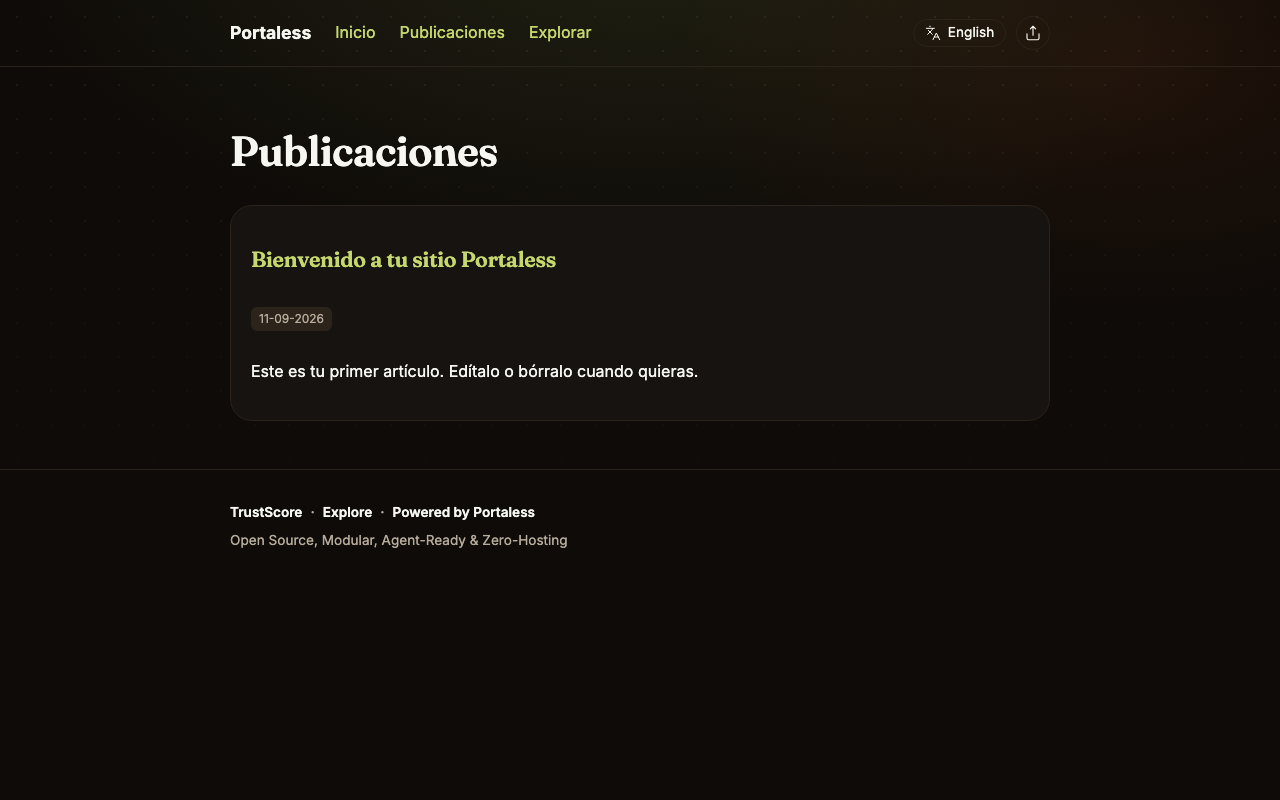
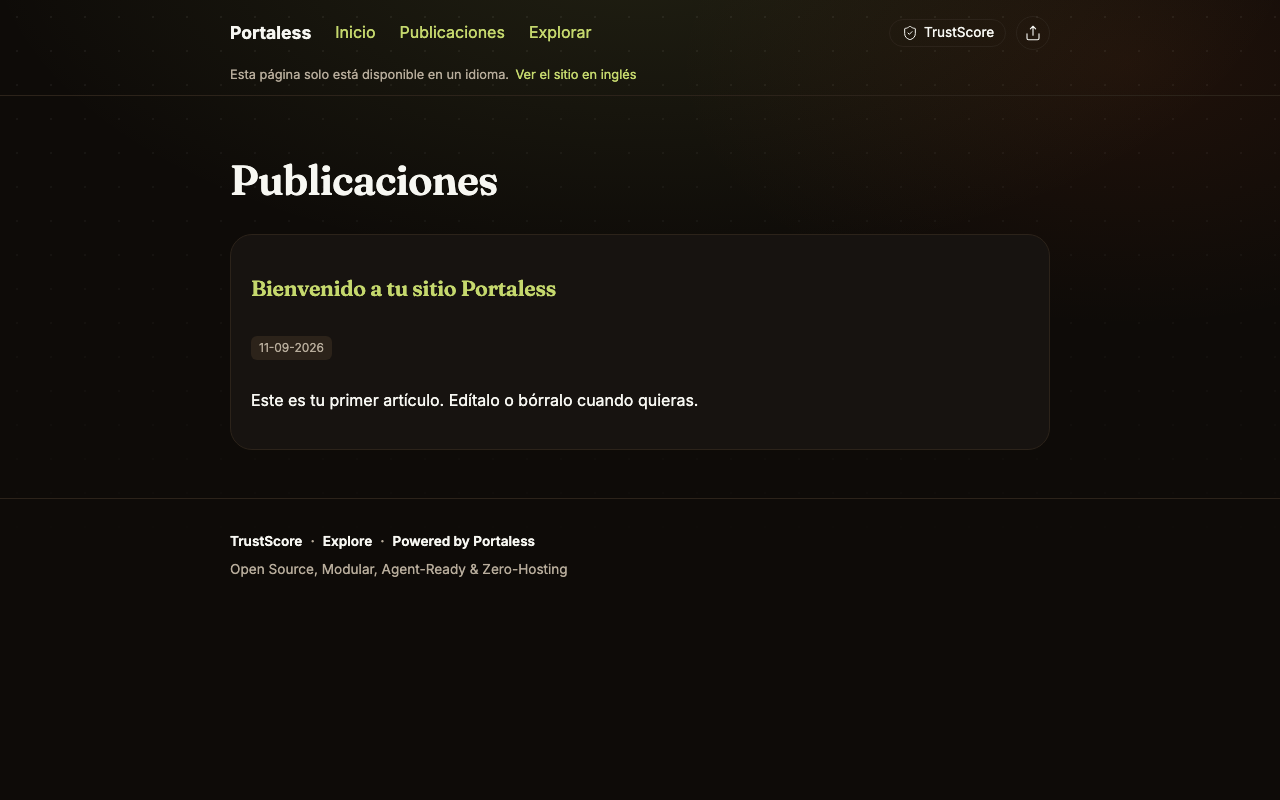
feat(site): promote TrustScore to the header (sixth universal item, next to Share)
The site's trust signal is the product's most differentiated piece but lived
only in the footer. It is now a shield icon + label in the header's right group,
before Share (language - TrustScore - share), on both surfaces via the shared
trustLinkHtml(). On mobile it is icon-only: Portaless [home][publications]
[search][shield][language] [share].

Destination fixed while promoting it: the footer (and now the header) pointed at
/trust/default, which 404s on the static GitHub Pages demo (no functions/). Both
now point at the /trust/ hub, which exists in the static build and resolves the
site id to the real default when the URL carries none (instead of "no site to
query"); /trust/<siteId> stays the JSON endpoint on a node.

Tests: trustLinkHtml (markup, both surfaces, order before Share, CSS in both),
footer test pins the hub + default resolution, browser cases (header link on
desktop, icon-only mobile, footer href). Screenshots regenerated.

Verified: vitest 192 files / 1773 passed, npx playwright test 37/37, build 56
pages.

diff --git a/functions/paginas/[slug].js b/functions/paginas/[slug].js
@@ -37,6 +37,7 @@ import {
   langNoticeHtml,
   NAV_ICONS,
   navIconHtml,
+  trustLinkHtml,
   VOLUME_LISTENER_SCRIPT,
 } from "../../src/lib/atomic-responsive-icons.ts";
 import {
@@ -90,8 +91,11 @@ header.site-header .header-lang:hover{border-color:var(--accent);color:var(--acc
 header.site-header .header-lang-icon svg{width:16px;height:16px}
 header.site-header .header-lang-notice{display:flex;flex-wrap:wrap;align-items:baseline;gap:0.4rem;max-width:860px;margin:0 auto;padding:0 1.25rem 0.7rem;font-size:0.8rem;line-height:1.4;color:var(--muted)}
 header.site-header .header-lang-notice-link{color:var(--accent-text);white-space:nowrap}
+header.site-header .header-trust{display:inline-flex;align-items:center;gap:0.4rem;padding:0.32rem 0.7rem;border:1px solid var(--panel-border);border-radius:999px;color:var(--text);font-size:0.85rem;line-height:1;text-decoration:none}
+header.site-header .header-trust:hover{border-color:var(--accent);color:var(--accent)}
+header.site-header .header-trust-icon svg{width:16px;height:16px}
 header.site-header .nav-ico{display:none;align-items:center;justify-content:center}
-@media (max-width:640px){header.site-header nav{gap:0.3rem;padding:0.75rem 0.9rem}header.site-header .brand{font-size:1rem}header.site-header .nav-link{display:inline-flex;align-items:center;justify-content:center;width:34px;height:34px;border-radius:999px;color:var(--text)}header.site-header .nav-link:hover{color:var(--accent)}header.site-header .nav-link .nav-ico{display:inline-flex}header.site-header .nav-link .nav-ico svg{width:19px;height:19px}header.site-header .nav-link .nav-txt{position:absolute;width:1px;height:1px;padding:0;margin:-1px;overflow:hidden;clip:rect(0 0 0 0);white-space:nowrap;border:0}header.site-header .header-right{gap:0.3rem}header.site-header .header-lang{width:34px;height:34px;padding:0;justify-content:center}header.site-header .header-lang .header-lang-text{position:absolute;width:1px;height:1px;padding:0;margin:-1px;overflow:hidden;clip:rect(0 0 0 0);white-space:nowrap;border:0}}
+@media (max-width:640px){header.site-header nav{gap:0.3rem;padding:0.75rem 0.9rem}header.site-header .brand{font-size:1rem}header.site-header .nav-link{display:inline-flex;align-items:center;justify-content:center;width:34px;height:34px;border-radius:999px;color:var(--text)}header.site-header .nav-link:hover{color:var(--accent)}header.site-header .nav-link .nav-ico{display:inline-flex}header.site-header .nav-link .nav-ico svg{width:19px;height:19px}header.site-header .nav-link .nav-txt{position:absolute;width:1px;height:1px;padding:0;margin:-1px;overflow:hidden;clip:rect(0 0 0 0);white-space:nowrap;border:0}header.site-header .header-right{gap:0.3rem}header.site-header .header-lang{width:34px;height:34px;padding:0;justify-content:center}header.site-header .header-lang .header-lang-text{position:absolute;width:1px;height:1px;padding:0;margin:-1px;overflow:hidden;clip:rect(0 0 0 0);white-space:nowrap;border:0}header.site-header .header-trust{width:34px;height:34px;padding:0;justify-content:center}header.site-header .header-trust .header-trust-text{position:absolute;width:1px;height:1px;padding:0;margin:-1px;overflow:hidden;clip:rect(0 0 0 0);white-space:nowrap;border:0}}
 header.site-header .header-icon-btn{display:inline-flex;align-items:center;justify-content:center;width:34px;height:34px;padding:0;border:1px solid var(--panel-border);border-radius:999px;background:transparent;color:var(--text);cursor:pointer}
 header.site-header .header-icon-btn:hover{border-color:var(--accent);color:var(--accent)}
 header.site-header .header-icon-btn svg{width:18px;height:18px}
@@ -201,6 +205,7 @@ ${description ? `<meta name="description" content="${description}" />` : ""}
     ${showPostsLink() ? `<a class="nav-link" href="/blog/">${navIconHtml(NAV_ICONS.posts)}<span class="nav-txt">${postsLabel(SITE_LANG)}</span></a>` : ""}
     <a class="nav-link" href="/explore/">${navIconHtml(NAV_ICONS.explore)}<span class="nav-txt">${exploreLabel(SITE_LANG)}</span></a>
     <div class="header-right">
+      ${trustLinkHtml({ href: "/trust/", label: t(SITE_LANG, "trust.label"), ariaLabel: t(SITE_LANG, "trust.aria") })}
       ${headerActionsHtml(deriveHeaderContext(layout.root))}
     </div>
   </nav>
@@ -220,7 +225,7 @@ ${description ? `<meta name="description" content="${description}" />` : ""}
 <footer class="site-footer">
   <div class="container">
     <nav class="footer-eco" aria-label="Ecosistema Portaless">
-      <a href="/trust/default">TrustScore</a>
+      <a href="/trust/">TrustScore</a>
       <span class="sep" aria-hidden="true">·</span>
       <a href="/explore/">Explore</a>
       <span class="sep" aria-hidden="true">·</span>

diff --git a/tests/unit/atomic-responsive-icons.test.ts b/tests/unit/atomic-responsive-icons.test.ts
@@ -18,6 +18,7 @@ import {
   langSwitcherHtml,
   NAV_ICONS,
   navIconHtml,
+  trustLinkHtml,
 } from "../../src/lib/atomic-responsive-icons";
 import {
   ICON_DIRECTIONS,
@@ -26,6 +27,7 @@ import {
   ICON_NEWSPAPER,
   ICON_SEARCH,
   ICON_SHARE_IOS,
+  ICON_SHIELD,
   ICON_SHOPPING_CART,
   ICON_STORE,
   ICON_VOLUME_2,
@@ -201,6 +203,39 @@ describe("langNoticeHtml -- aviso de idioma honesto (patron Airbnb)", () => {
     const cssSrc = readFileSync(join(root, "src/styles/global.css"), "utf8");
     expect(cssSrc).toContain(".header-lang-notice");
     expect(shellSrc).toContain(".header-lang-notice{");
+  });
+});
+
+describe("trustLinkHtml -- TrustScore en el header (sexto item universal)", () => {
+  it("es un enlace con clase header-trust, el icono escudo y la etiqueta", () => {
+    const html = trustLinkHtml({ href: "/trust/", label: "TrustScore", ariaLabel: "Site Trust Score" });
+    expect(html).toContain('class="header-trust"');
+    expect(html).toContain('href="/trust/"');
+    expect(html).toContain('aria-label="Site Trust Score"');
+    expect(html).toContain(ICON_SHIELD);
+    expect(html).toContain('class="header-trust-icon"');
+    expect(html).toContain("TrustScore");
+  });
+
+  it("el header Astro y el shell runtime lo emiten desde la MISMA fuente", () => {
+    expect(headerSrc).toContain("trustLinkHtml({");
+    expect(shellSrc).toContain("trustLinkHtml({");
+  });
+
+  it("va en el grupo derecho, antes de las acciones (share)", () => {
+    const groupIdx = headerSrc.indexOf('class="header-right"');
+    const trustIdx = headerSrc.indexOf("trustLinkHtml({");
+    const actionsIdx = headerSrc.indexOf("headerActionsHtml(context, base)");
+    expect(trustIdx).toBeGreaterThan(groupIdx);
+    expect(actionsIdx).toBeGreaterThan(trustIdx);
+  });
+
+  it("el CSS del header-trust esta en ambas superficies (y en movil icon-only)", () => {
+    const cssSrc = readFileSync(join(root, "src/styles/global.css"), "utf8");
+    expect(cssSrc).toContain(".header-trust");
+    expect(cssSrc).toContain(".header-trust-icon");
+    expect(shellSrc).toContain(".header-trust{");
+    expect(shellSrc).toContain(".header-trust .header-trust-text{");
   });
 });
 

diff --git a/src/styles/global.css b/src/styles/global.css
@@ -309,6 +309,39 @@ header.site-header .header-lang-notice-link {
   white-space: nowrap;
 }
 
+/* TrustScore del sitio en el header (sexto item universal, al lado de Share).
+   Pill con icono escudo + etiqueta; en movil queda icon-only, como el resto. */
+header.site-header .header-trust {
+  display: inline-flex;
+  align-items: center;
+  gap: 0.4rem;
+  padding: 0.32rem 0.7rem;
+  border: 1px solid var(--panel-border);
+  border-radius: 999px;
+  color: var(--text);
+  font-size: 0.85rem;
+  line-height: 1;
+  text-decoration: none;
+}
+
+header.site-header .header-trust:hover {
+  border-color: var(--accent);
+  color: var(--accent);
+}
+
+header.site-header .header-trust-icon {
+  display: inline-flex;
+}
+
+header.site-header .header-trust-icon svg {
+  width: 16px;
+  height: 16px;
+}
+
+header.site-header .header-trust-text {
+  white-space: nowrap;
+}
+
 /* Navegacion del header: el icono esta en el DOM pero oculto en DESKTOP (solo
    el texto, como siempre). El texto nunca se quita del DOM, asi el nombre
    accesible se conserva en los dos modos. Ningun cambio de color/estilo base:
@@ -380,6 +413,25 @@ header.site-header .nav-ico {
   }
 
   header.site-header .header-lang .header-lang-text {
+    position: absolute;
+    width: 1px;
+    height: 1px;
+    padding: 0;
+    margin: -1px;
+    overflow: hidden;
+    clip: rect(0 0 0 0);
+    white-space: nowrap;
+    border: 0;
+  }
+
+  header.site-header .header-trust {
+    width: 34px;
+    height: 34px;
+    padding: 0;
+    justify-content: center;
+  }
+
+  header.site-header .header-trust .header-trust-text {
     position: absolute;
     width: 1px;
     height: 1px;

diff --git a/tests/unit/site-ecosystem-footer.test.ts b/tests/unit/site-ecosystem-footer.test.ts
@@ -22,12 +22,14 @@ describe("footer del ecosistema Portaless", () => {
     expect(footerSrc).toContain('aria-label="Ecosistema Portaless"');
   });
 
-  it("TrustScore apunta al siteId real, nunca a /trust/ vacio (eso muestra error)", () => {
-    // El source tiene "}trust/default" (el "/" del inicio lo aporta
-    // BASE_URL en runtime), por eso se busca "trust/<id>" y se prohíbe
-    // que termine el template justo ahi.
-    expect(footerSrc).toContain(`trust/${SITE_ID}`);
-    expect(footerSrc).not.toMatch(/trust\/`/);
+  it("TrustScore apunta al hub /trust/, que resuelve el siteId real por defecto", () => {
+    // Antes apuntaba a /trust/default, que da 404 en el deploy estatico (no hay
+    // functions/). El hub /trust/ existe en dist y cae al siteId real cuando la
+    // URL no trae uno (ver src/pages/trust/index.astro).
+    expect(footerSrc).toContain("trust/");
+    expect(footerSrc).not.toContain("trust/default");
+    const trustPage = readFileSync(join(root, "src/pages/trust/index.astro"), "utf8");
+    expect(trustPage).toContain(`: "${SITE_ID}"`);
   });
 
   it("Explore apunta a una pagina que existe -- sin links rotos", () => {
@@ -59,7 +61,7 @@ describe("paridad static <-> runtime (functions/paginas/[slug].js)", () => {
     expect(shellSrc).toContain(">TrustScore<");
     expect(shellSrc).toContain(">Explore<");
     expect(shellSrc).toContain("Powered by Portaless");
-    expect(shellSrc).toContain(`trust/${SITE_ID}`);
+    expect(shellSrc).toContain('href="/trust/"');
     expect(shellSrc).toContain("/explore/");
     expect(shellSrc).not.toContain("Hecho con");
   });

diff --git a/tests/browser/public-ecosystem-footer.spec.ts b/tests/browser/public-ecosystem-footer.spec.ts
@@ -105,10 +105,25 @@ test("footer del ecosistema: TrustScore · Explore · Powered by Portaless", asy
   await page.goto(BIO_URL);
 
   const footer = page.locator("footer.site-footer");
-  await expect(footer.getByRole("link", { name: "TrustScore" })).toHaveAttribute("href", /\/trust\/default$/);
+  await expect(footer.getByRole("link", { name: "TrustScore" })).toHaveAttribute("href", /\/trust\/$/);
   await expect(footer.getByRole("link", { name: "Explore" })).toHaveAttribute("href", /\/explore\/$/);
   await expect(footer.getByRole("link", { name: "Powered by Portaless" })).toHaveAttribute("href", /github\.com/);
   await expect(footer).toContainText("Open Source, Modular, Agent-Ready & Zero-Hosting");
+});
+
+test("el TrustScore vive en el header, al lado de Share, apuntando al hub /trust/", async ({ page }) => {
+  await page.goto(BIO_URL);
+
+  const trust = page.locator("header.site-header a.header-trust");
+  await expect(trust).toBeVisible();
+  await expect(trust).toHaveAttribute("href", /\/trust\/$/);
+  await expect(trust).toHaveAttribute("aria-label", "TrustScore del sitio");
+  await expect(trust.locator(".header-trust-icon svg")).toHaveCount(1);
+
+  // Va ANTES del share (que sigue pegado al borde derecho).
+  const trustBox = (await trust.boundingBox())!;
+  const shareBox = (await page.locator("header.site-header [data-portaless-share]").boundingBox())!;
+  expect(trustBox.x).toBeLessThan(shareBox.x);
 });
 
 test("Explore existe y lista paginas publicadas (sin links rotos)", async ({ page }) => {

diff --git a/src/lib/atomic-responsive-icons.ts b/src/lib/atomic-responsive-icons.ts
@@ -27,6 +27,7 @@ import {
   ICON_NEWSPAPER,
   ICON_SEARCH,
   ICON_SHARE_IOS,
+  ICON_SHIELD,
   ICON_SHOPPING_CART,
   ICON_STORE,
   ICON_VOLUME_2,
@@ -108,6 +109,15 @@ export function langSwitcherHtml(input: {
 // header Astro y el shell runtime.
 export function langNoticeHtml(input: { text: string; ctaLabel: string; href: string }): string {
   return `<p class="header-lang-notice"><span class="header-lang-notice-txt">${input.text}</span> <a class="header-lang-notice-link" href="${input.href}">${input.ctaLabel}</a></p>`;
+}
+
+// TrustScore en el header: el score DEL SITIO (no de una persona dentro de el),
+// como sexto item universal -- la prueba de confianza verificable deja de vivir
+// solo en el footer. Icono escudo + etiqueta; en movil el texto se oculta
+// visualmente (misma regla que el resto del menu) y queda el icono. UNA fuente
+// para el header Astro y el shell runtime.
+export function trustLinkHtml(input: { href: string; label: string; ariaLabel: string }): string {
+  return `<a class="header-trust" href="${input.href}" aria-label="${input.ariaLabel}" title="${input.ariaLabel}"><span class="header-trust-icon" aria-hidden="true">${ICON_SHIELD}</span><span class="header-trust-text">${input.label}</span></a>`;
 }
 
 // Iconos de navegacion para MOVIL (CSS los muestra solo bajo el breakpoint; en

diff --git a/tests/browser/header-mobile.spec.ts b/tests/browser/header-mobile.spec.ts
@@ -37,9 +37,16 @@ test("movil: menu por iconos, con el compartir intacto a la derecha", async ({ p
   await expect(share).toBeVisible();
   await expect(page.locator("[data-portaless-share]")).toHaveCount(1);
 
+  // El TrustScore tambien es icon-only en movil, y va antes del share.
+  const trust = page.locator("header.site-header a.header-trust");
+  await expect(trust.locator(".header-trust-icon svg")).toBeVisible();
+  await expect(trust).toHaveAttribute("href", /\/trust\/$/);
+
   const langBox = (await lang.boundingBox())!;
+  const trustBox = (await trust.boundingBox())!;
   const shareBox = (await share.boundingBox())!;
-  expect(langBox.x).toBeLessThan(shareBox.x);
+  expect(langBox.x).toBeLessThan(trustBox.x);
+  expect(trustBox.x).toBeLessThan(shareBox.x);
 
   // El icono de Explorar navega de verdad.
   await page.locator("header.site-header a.nav-link[href='/explore/']").click();

diff --git a/packages/atomic-elements/src/elements/icons.ts b/packages/atomic-elements/src/elements/icons.ts
@@ -110,6 +110,13 @@ export const ICON_SEARCH = icon(
   1.5,
 );
 
+// TrustScore -> lucide "shield-check". El score del sitio en el header: la
+// prueba de confianza verificable, no asumida (VISION).
+export const ICON_SHIELD = icon(
+  `<path d="M20 13c0 5-3.5 7.5-7.66 8.95a1 1 0 0 1-.67-.01C7.5 20.5 4 18 4 13V6a1 1 0 0 1 1-1c2 0 4.5-1.2 6.24-2.72a1.17 1.17 0 0 1 1.52 0C14.51 3.81 17 5 19 5a1 1 0 0 1 1 1z" /> <path d="m9 12 2 2 4-4" />`,
+  1.5,
+);
+
 // Perfil / Bio -> lucide "circle-user-round"
 export const ICON_CIRCLE_USER_ROUND = icon(`<path d="M17.925 20.056a6 6 0 0 0-11.851.001" /> <circle cx="12" cy="11" r="4" /> <circle cx="12" cy="12" r="10" />`);
 

diff --git a/CHANGELOG.md b/CHANGELOG.md
@@ -14,6 +14,8 @@ maintained in English only.)
 
 ### Added
 
+- **TrustScore is promoted to the header — the sixth universal item, next to Share.** The site's trust signal is the product's most differentiated piece ("trust is verifiable, not assumed"), yet it lived only in the footer as a small line. It is now a **shield icon + label** in the header's right group, before Share (`… · language · TrustScore · share`), on both surfaces (Astro header and runtime shell) via the shared `trustLinkHtml()`. On mobile it is **icon-only**, so the set becomes `Portaless [home][publications][search][shield][language] [share]`. **The destination was fixed while promoting it**: the footer (and now the header) pointed at `/trust/default`, which **404s on the static GitHub Pages demo** (no `functions/`); both now point at the **`/trust/` hub**, which exists in the static build and **resolves the site id to the real default** when the URL carries none (instead of showing "no site to query"), while `/trust/<siteId>` stays the JSON endpoint on a node. Tests: `trustLinkHtml` (markup, wiring in both surfaces, order before Share, CSS in both), the footer test now pins the hub + the default resolution, and browser cases (header link on desktop, icon-only on mobile, footer `href`). Screenshots regenerated (header on every page; new mobile header). Verified: vitest 192 files / 1773 passed, `npx playwright test` 37/37, build 56 pages.
+
 - **The header's navigation becomes icon-only on mobile — and only on mobile.** On a narrow screen the five text items (*Home, Publications, Explore, language, share*) had no responsive rules at all and overflowed. Now, under `@media (max-width: 640px)`, the menu is `Portaless` + **four round icons** — a house (Home), a newspaper (Publications), a magnifier (Explore) and the existing languages icon (the switcher becomes icon-only) — with **the share button untouched in its place** at the right edge. Desktop is **byte-for-byte unchanged**: the new icons are `display:none` above the breakpoint and the base links keep their default colour and hover (the mobile colour/box rules live only inside the media query). **The text is never removed from the DOM**: on mobile `.nav-txt` is visually hidden (clip), so screen readers still announce "Home", "Publications", "Explorar". The icons come from **one shared source** — `NAV_ICONS` / `navIconHtml()` in `src/lib/atomic-responsive-icons.ts` (three new `ICON_HOUSE`/`ICON_NEWSPAPER`/`ICON_SEARCH` in the element icon set, `ICON_STORE` reused for the optional shop link) — consumed by both the Astro header and the runtime shell, and the CSS is mirrored in `global.css` and the shell, so the two surfaces cannot drift. Tests: 6 unit cases (`NAV_ICONS` mapping, the decorative span, wiring in both surfaces, the media query in both CSS, and that the share is *not* restyled) and `tests/browser/header-mobile.spec.ts` (icon-only at 390px on both the static home and the runtime page, the share still last, and the desktop text intact). New screenshot `public-home-mobile.png`. Verified: vitest 191 files / 1757 passed, `npx playwright test` 35/35, build 56 pages.
 
 - **Docs as pages: the repository's Markdown is now also a site, from the one source (no copy, no JSON).** `/docs/` publishes the twelve documents a reader actually needs — grouped exactly like the official docs (**Getting started**, **Guides**, **Reference**, **Concepts**) — with the **Markdown in `docs/` staying the single source**: the site is a projection of it, the same rule as one canon / many projections. **The source is never rewritten**: `src/lib/docs-nav.mjs` is the *explicit* sidebar config (group → ordered list, each entry declaring its language, `en`/`es`), and `src/lib/docs-loader.mjs` is a **content-collection loader that reads those files, rewrites their relative links and stores the resolved body** — so the render comes out with working links and **no new dependency** (Astro 7 no longer ships remark by default; adding `@astrojs/markdown-remark` just to rewrite links was rejected in favour of transforming the source before it is stored). **Relative links are resolved, not left broken** (`src/lib/docs-links.mjs`): `./APW-VECTORS-v1.3.md` becomes the site route `/docs/apw-vectors/` when the target is one of the included docs, and any other repository file becomes its **GitHub** blob/tree URL (with `file.ts:712` → `#L712`), so `docs/` keeps linking to `packages/` and to excluded files without the site inventing routes. **The shell and the dark theme are the engine's** (`components/DocsSidebar.astro`, `pages/docs/index.astro`, `pages/docs/[...slug].astro`): the sidebar is built from the config and **marks each doc's language** so nobody hits a silent language switch, and the detail page renders the Markdown body inside `BaseLayout` with `ecosystemPageTheme()`. **Static, no `functions/`**: each doc also has a plain-text projection at `/docs/<slug>.md` (announced with `rel="alternate" text/markdown`, like the posts), the docs join **`sitemap.xml`** and **`llms.txt`** (new *Documentation* section), and there is **no search** (out of scope on purpose). **Excluded on purpose**: `ROADMAP-ARCHIVE`, `ROADMAP_es` and internal documents; the current `ROADMAP` is **linked to GitHub, never copied** — the same reason `VISION.md` carries no status. Tests: `tests/unit/docs-nav.test.ts` (unique slugs, files that exist, declared language, the excluded set) and `tests/unit/docs-links.test.ts` (rewrite rules, that **no relative link in any included doc stays relative**, and the dark-mode/sidebar/`rel="alternate"` wiring). Verified: vitest run (191 files / 1746 passed), npm run build (56 pages: 43 + 12 docs + the landing).
